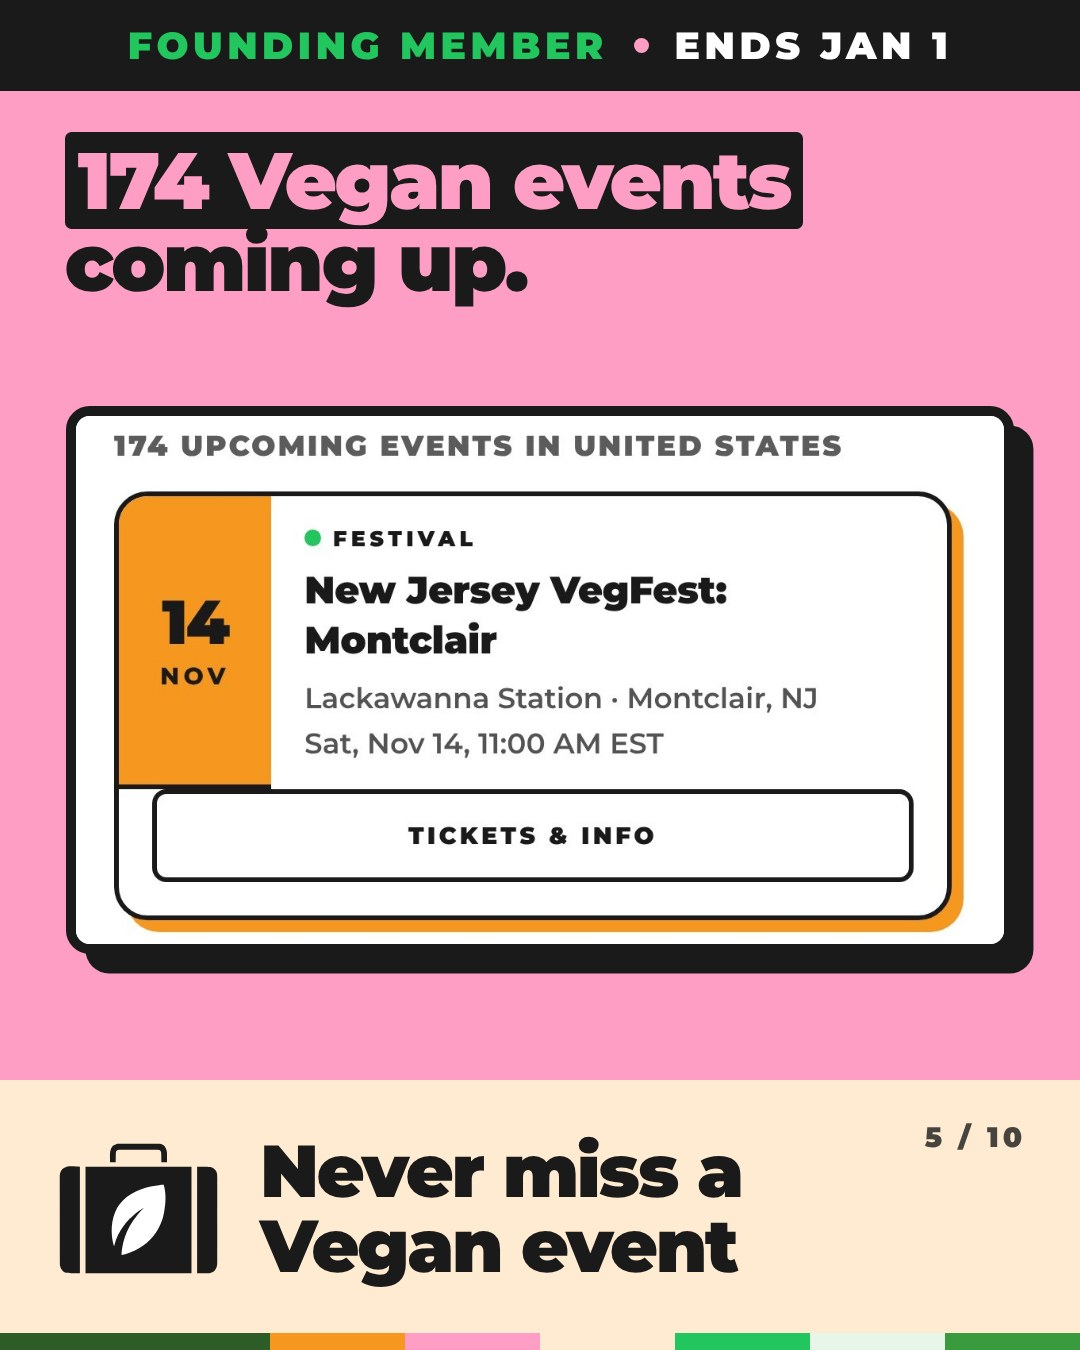
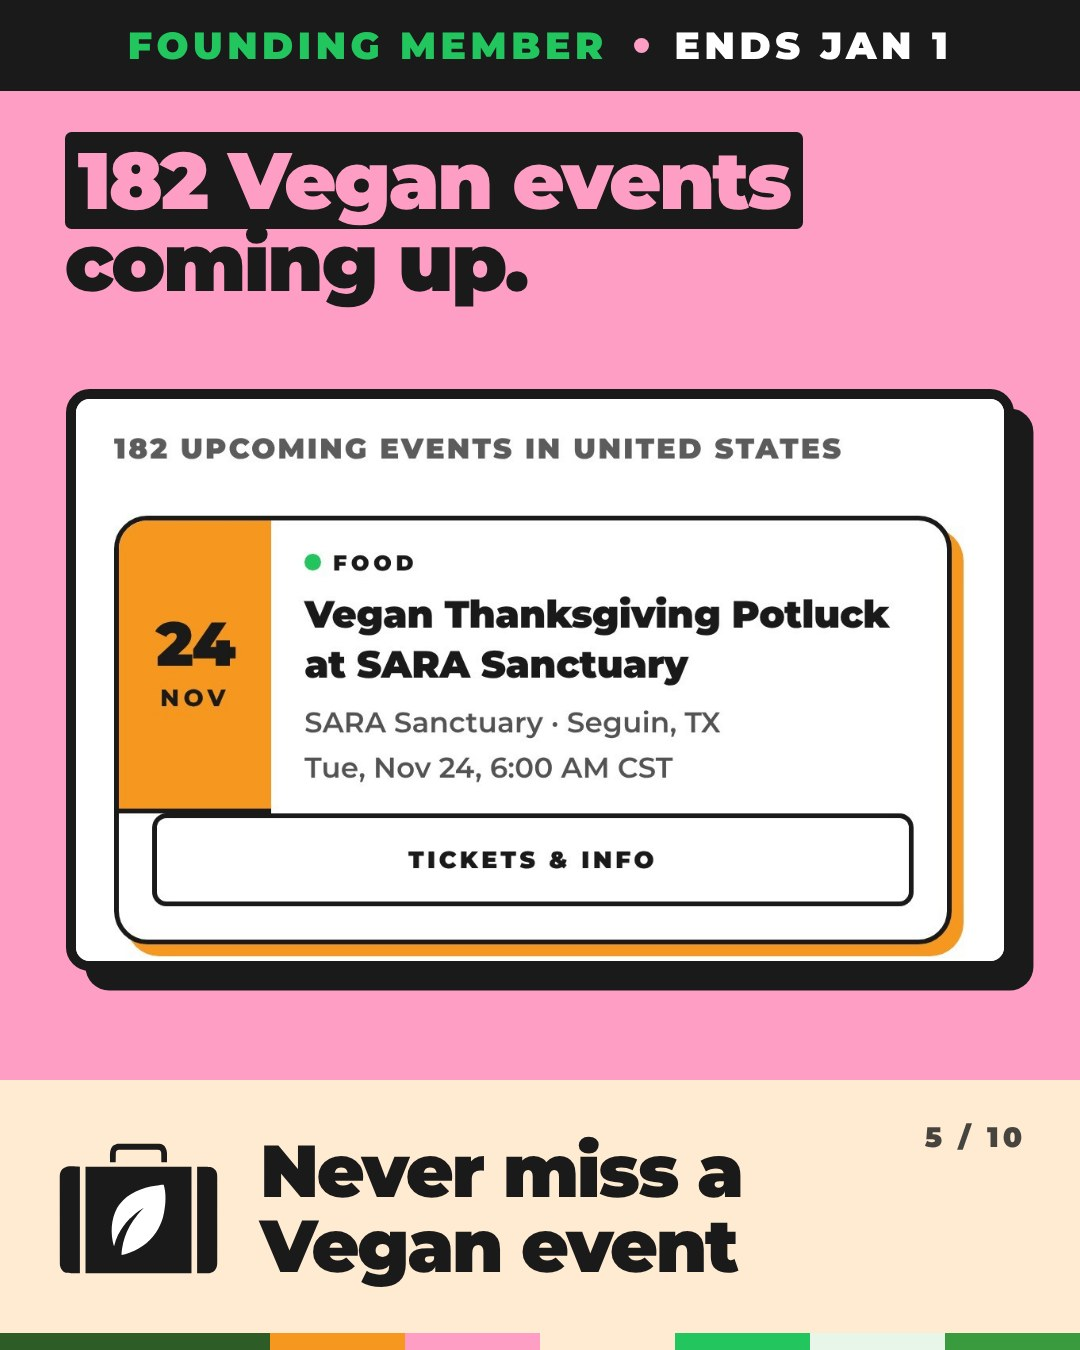
Founding 2 retake (slides 2, 3, 5: today's counts, an upcoming event, Vedge for Next Level); Nov 27 bio link job; handoff updated
Claude-Session: https://claude.ai/code/session_01Au68azsaxwsvtQqEzP5LgE

diff --git a/docs/handoff/2026-11-21-ve-social-schedule-wrap.md b/docs/handoff/2026-11-21-ve-social-schedule-wrap.md
@@ -15,9 +15,12 @@ clip calls, the podcast spotlight reel locked) and main as of 3f4a8b9. Nothing n
 1. **Week of Nov 23**: 17 slots proposed, batch `week-2026-11-23` (views `public/social/week-2026-11-23/grid-preview.jpg`, `stories-preview.jpg`).
    They predate the faces-first direction. Recommendation: keep the four city carousels, skip or replace the Guide-led ThanksLiving pieces with
    business and people posts (the podcast spotlight reels when the episode videos arrive). Nothing there is approved.
-2. **Founding 2 retake** before Mon Nov 23 9 AM ET: slides 2, 3 and 5 (live counts, event dates),
-   `public/social/founding/direct-response/src/render.js` (now on main). A fresh-session scheduled task fires Sun Nov 22 10 AM ET.
-3. **Bio link 3** back to the Holiday Guide on Nov 27: a fresh-session scheduled task fires Nov 27 12:05 AM ET.
+2. **Founding 2 retake: DONE 2026-11-21** (not left for Sun Nov 22): slides 2, 3 and 5 recaptured live (489 places, 182 upcoming events,
+   a Nov 24 ThanksLiving potluck instead of a past event, Vedge instead of Next Level Veggie Grill per Sean's Nov 19 rule), uploaded as
+   `slide-0N-v2.jpg`, the slot re-sent (Metricool 436664735) and read back identical on Instagram, Facebook and TikTok.
+3. **Bio link 3** back to the Holiday Guide on Nov 27: a one-time database job, `ve-bio-link3-holiday-nov27` (pg_cron, 05:05 UTC = 12:05 AM ET),
+   switches it, logs a playbook row and removes itself; migration `20261121_ve_bio_link3_nov27_job.sql`. No chat needed. Sean then renames
+   link 3 on Instagram. The two reminders that fired into the 2026-11-15 chat were deleted.
 4. Parked: the Social kit platform buttons run off the right edge on phones (HQ `KitSheet.tsx` `.sk-tabs`); the holiday menus post for the
    week of Nov 30 (Christmas menus); a Feed / Stories filter in Depot > Social.
 
